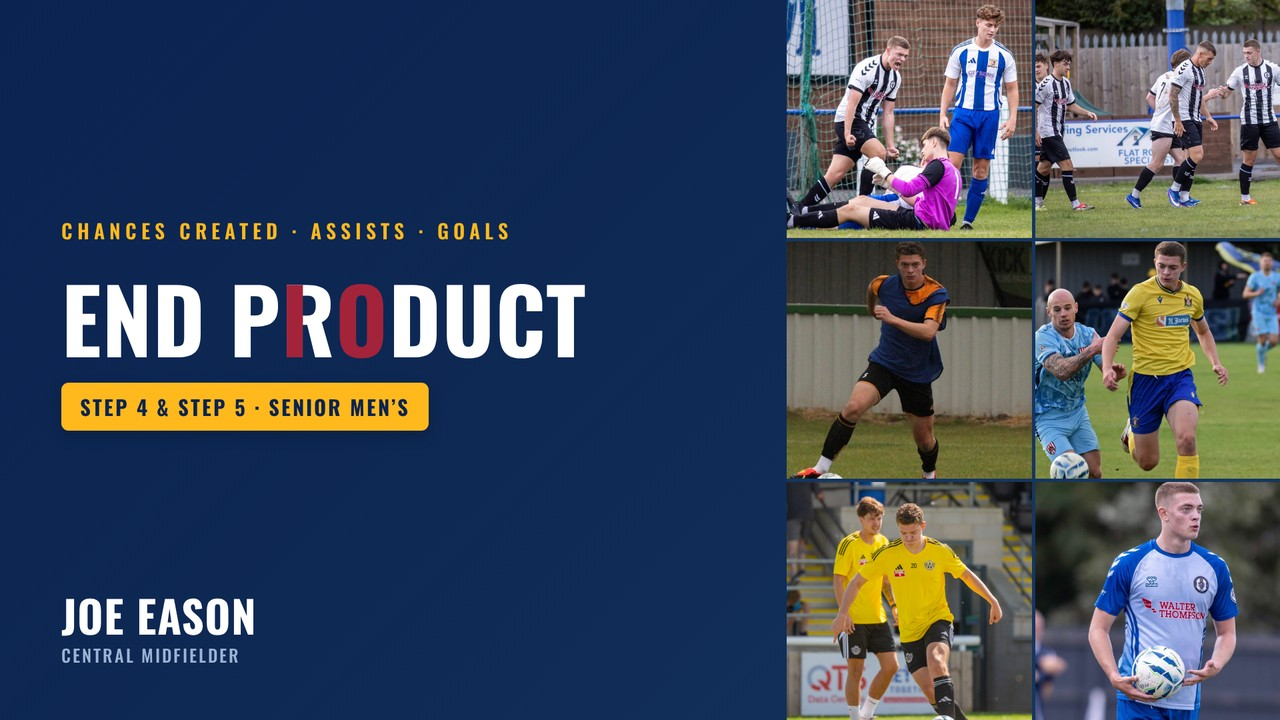
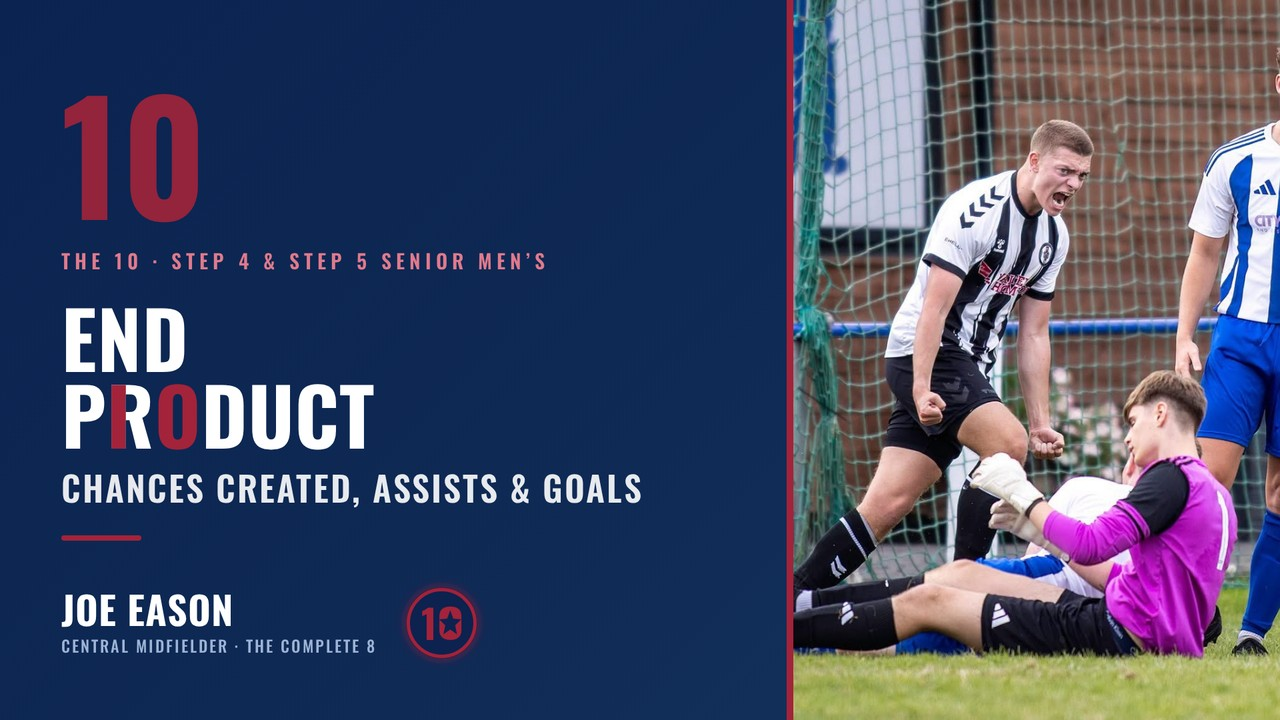
New 10

diff --git a/_test-home-8.html b/_test-home-8.html
@@ -1230,7 +1230,7 @@
           </g>
         </svg>
         <!-- top loop = the 0 of the 10: END PRODUCT, opens the reel -->
-        <a class="hub8-top hub8-ep" href="https://www.youtube.com/watch?v=8nT0fmOoSeg" target="_blank" rel="noopener" data-vid="8nT0fmOoSeg" data-title="End Product: Chances Created, Assists &amp; Goals" data-more="central-midfielder.html#end-product" aria-label="End Product — play the reel">
+        <a class="hub8-top hub8-ep" href="https://www.youtube.com/watch?v=eNd3AO6EZwM" target="_blank" rel="noopener" data-vid="eNd3AO6EZwM" data-title="End Product: Chances Created, Assists &amp; Goals" data-more="central-midfielder.html#end-product" aria-label="End Product — play the reel">
           <span class="ep-k">What the eight produce</span>
           <span class="ep10">END P<span class="ep10-r">R<span class="ep10-stem" aria-hidden="true">R</span></span><span class="ep10-o">O</span>DUCT</span>
           <span class="ep-sub">Chances created &middot; assists &middot; goals</span>
@@ -1290,7 +1290,7 @@
           <div class="m-tile-thumb m-8th"><span class="num-wrap"><span class="num">8</span><span class="hub-star"><i class="fas fa-star"></i></span></span></div>
           <div class="m-tile-body"><h3>The Bit You Can&rsquo;t Coach: The Intangibles</h3><p>Leadership and on-field personality</p></div>
         </a>
-        <a href="https://www.youtube.com/watch?v=8nT0fmOoSeg" target="_blank" rel="noopener" class="m-tile g10" data-vid="8nT0fmOoSeg" data-title="End Product: Chances Created, Assists &amp; Goals" data-more="central-midfielder.html#end-product">
+        <a href="https://www.youtube.com/watch?v=eNd3AO6EZwM" target="_blank" rel="noopener" class="m-tile g10" data-vid="eNd3AO6EZwM" data-title="End Product: Chances Created, Assists &amp; Goals" data-more="central-midfielder.html#end-product">
           <div class="m-tile-thumb"><img src="img/card-end-product.jpg" alt=""></div>
           <div class="m-tile-body"><h3>End Product: Chances Created, Assists &amp; Goals</h3><p>From senior men&rsquo;s football at Step 5 and Step 4</p></div>
         </a>
@@ -1306,7 +1306,7 @@
         <div class="kg kg6"><div class="kg-h"><span class="kg-t">The 6</span><span class="kg-s">Holding midfielder &middot; 01&ndash;03</span></div><a class="ki" data-k="0" href="https://www.youtube.com/watch?v=nmPGCvV8c5w" target="_blank" rel="noopener" data-vid="nmPGCvV8c5w" data-title="Press Resistance: Receiving &amp; Turning"><b>01</b><span class="ki-h"><span class="ki-t">Press Resistance</span><span class="ki-s">Receiving &amp; Turning</span></span><span class="ki-d">Back foot, play forward</span></a><a class="ki" data-k="1" href="https://www.youtube.com/watch?v=RQgMkaj3DGI" target="_blank" rel="noopener" data-vid="RQgMkaj3DGI" data-title="Screening the Back Four: Blocks, Cover &amp; Interceptions"><b>02</b><span class="ki-h"><span class="ki-t">Screening the Back Four</span><span class="ki-s">Blocks, Cover &amp; Interceptions</span></span><span class="ki-d">Reading it, stepping in, screening the back four</span></a><a class="ki" data-k="2" href="https://www.youtube.com/watch?v=DRo2E2lNBT0" target="_blank" rel="noopener" data-vid="DRo2E2lNBT0" data-title="Range of Passing: Forward Balls, Switches &amp; Crosses"><b>03</b><span class="ki-h"><span class="ki-t">Range of Passing</span><span class="ki-s">Forward Balls, Switches &amp; Crosses</span></span><span class="ki-d">Switching play, crossing, delivery</span></a></div>
         <div class="kg kgh"><div class="kg-h"><span class="kg-t">Running the Game</span><span class="kg-s">The 6 into the 8 &middot; 04</span></div><a class="ki" data-k="3" href="https://www.youtube.com/watch?v=Oh14U_1x-bk" target="_blank" rel="noopener" data-vid="Oh14U_1x-bk" data-title="Running the Game: Controlling the Tempo &amp; Breaking Lines"><b>04</b><span class="ki-h"><span class="ki-t">Running the Game</span><span class="ki-s">Controlling the Tempo &amp; Breaking Lines</span></span><span class="ki-d">Playing through, always available, setting the pace</span></a></div>
         <div class="kg kg8"><div class="kg-h"><span class="kg-t">The 8</span><span class="kg-s">Box to box &middot; 05&ndash;07</span></div><a class="ki" data-k="4" href="https://www.youtube.com/watch?v=B1waNOyC7ts" target="_blank" rel="noopener" data-vid="B1waNOyC7ts" data-title="Driving the Team Forward: Ball Carrying"><b>05</b><span class="ki-h"><span class="ki-t">Driving the Team Forward</span><span class="ki-s">Ball Carrying</span></span><span class="ki-d">Driving runs, beating pressure</span></a><a class="ki" data-k="5" href="https://www.youtube.com/watch?v=i4wLz3F-NJ4" target="_blank" rel="noopener" data-vid="i4wLz3F-NJ4" data-title="Winning the Battles: Pressing, Tackling, Recovery Runs &amp; Heading"><b>06</b><span class="ki-h"><span class="ki-t">Winning the Battles</span><span class="ki-s">Pressing, Tackling, Recovery Runs &amp; Heading</span></span><span class="ki-d">Going in, getting back, winning in the air</span></a><a class="ki" data-k="6" href="https://www.youtube.com/watch?v=nUP0c3hIan0" target="_blank" rel="noopener" data-vid="nUP0c3hIan0" data-title="Technical Quality: First Touch, Volleys &amp; Quick Feet"><b>07</b><span class="ki-h"><span class="ki-t">Technical Quality</span><span class="ki-s">First Touch, Volleys &amp; Quick Feet</span></span><span class="ki-d">First touch, composure, execution</span></a></div>
-        <div class="kg kg10"><div class="kg-h"><span class="kg-t">08 + The 10</span><span class="kg-s">In the middle</span></div><a class="ki ki8th" data-k="8th" href="central-midfielder.html#leadership"><b>08</b><span class="ki-h"><span class="ki-t">The Bit You Can&rsquo;t Coach</span><span class="ki-s">The Intangibles</span></span><span class="ki-d">Leadership and on-field personality</span></a><a class="ki ki10" data-k="10" href="https://www.youtube.com/watch?v=8nT0fmOoSeg" target="_blank" rel="noopener" data-vid="8nT0fmOoSeg" data-title="End Product: Chances Created, Assists &amp; Goals" data-more="central-midfielder.html#end-product"><b>10</b><span class="ki-h"><span class="ki-t">End Product</span><span class="ki-s">Chances Created, Assists &amp; Goals</span></span><span class="ki-d">From senior men&rsquo;s football at Step 5 and Step 4</span></a></div>
+        <div class="kg kg10"><div class="kg-h"><span class="kg-t">08 + The 10</span><span class="kg-s">In the middle</span></div><a class="ki ki8th" data-k="8th" href="central-midfielder.html#leadership"><b>08</b><span class="ki-h"><span class="ki-t">The Bit You Can&rsquo;t Coach</span><span class="ki-s">The Intangibles</span></span><span class="ki-d">Leadership and on-field personality</span></a><a class="ki ki10" data-k="10" href="https://www.youtube.com/watch?v=eNd3AO6EZwM" target="_blank" rel="noopener" data-vid="eNd3AO6EZwM" data-title="End Product: Chances Created, Assists &amp; Goals" data-more="central-midfielder.html#end-product"><b>10</b><span class="ki-h"><span class="ki-t">End Product</span><span class="ki-s">Chances Created, Assists &amp; Goals</span></span><span class="ki-d">From senior men&rsquo;s football at Step 5 and Step 4</span></a></div>
       </div>
   </div>
 </section>
@@ -1665,7 +1665,7 @@ document.querySelectorAll('.fi').forEach(el => {
 /* ── END PRODUCT pop-up ──────────────────────────────────────────────
    Set EP_VIDEO to the YouTube ID once the reel is cut; until then the
    pop-up shows a placeholder instead of an empty player.            */
-const EP_VIDEO = '8nT0fmOoSeg';
+const EP_VIDEO = 'eNd3AO6EZwM';
 (function () {
   const modal = document.getElementById('epModal');
   const slot  = document.getElementById('epmVideo');

diff --git a/index.html b/index.html
@@ -1225,7 +1225,7 @@
           </g>
         </svg>
         <!-- top loop = the 0 of the 10: END PRODUCT, opens the reel -->
-        <a class="hub8-top hub8-ep" href="https://www.youtube.com/watch?v=8nT0fmOoSeg" target="_blank" rel="noopener" data-vid="8nT0fmOoSeg" data-title="End Product: Chances Created, Assists &amp; Goals" data-more="central-midfielder.html#end-product" aria-label="End Product — play the reel">
+        <a class="hub8-top hub8-ep" href="https://www.youtube.com/watch?v=eNd3AO6EZwM" target="_blank" rel="noopener" data-vid="eNd3AO6EZwM" data-title="End Product: Chances Created, Assists &amp; Goals" data-more="central-midfielder.html#end-product" aria-label="End Product — play the reel">
           <span class="ep-k">What the eight produce</span>
           <span class="ep10">END P<span class="ep10-r">R<span class="ep10-stem" aria-hidden="true">R</span></span><span class="ep10-o">O</span>DUCT</span>
           <span class="ep-sub">Chances created &middot; assists &middot; goals</span>
@@ -1285,7 +1285,7 @@
           <div class="m-tile-thumb m-8th"><span class="num-wrap"><span class="num">8</span><span class="hub-star"><i class="fas fa-star"></i></span></span></div>
           <div class="m-tile-body"><h3>The Bit You Can&rsquo;t Coach: The Intangibles</h3><p>Leadership and on-field personality</p></div>
         </a>
-        <a href="https://www.youtube.com/watch?v=8nT0fmOoSeg" target="_blank" rel="noopener" class="m-tile g10" data-vid="8nT0fmOoSeg" data-title="End Product: Chances Created, Assists &amp; Goals" data-more="central-midfielder.html#end-product">
+        <a href="https://www.youtube.com/watch?v=eNd3AO6EZwM" target="_blank" rel="noopener" class="m-tile g10" data-vid="eNd3AO6EZwM" data-title="End Product: Chances Created, Assists &amp; Goals" data-more="central-midfielder.html#end-product">
           <div class="m-tile-thumb"><img src="img/card-end-product.jpg" alt=""></div>
           <div class="m-tile-body"><h3>End Product: Chances Created, Assists &amp; Goals</h3><p>From senior men&rsquo;s football at Step 5 and Step 4</p></div>
         </a>
@@ -1301,7 +1301,7 @@
         <div class="kg kg6"><div class="kg-h"><span class="kg-t">The 6</span><span class="kg-s">Holding midfielder &middot; 01&ndash;03</span></div><a class="ki" data-k="0" href="https://www.youtube.com/watch?v=nmPGCvV8c5w" target="_blank" rel="noopener" data-vid="nmPGCvV8c5w" data-title="Press Resistance: Receiving &amp; Turning"><b>01</b><span class="ki-h"><span class="ki-t">Press Resistance</span><span class="ki-s">Receiving &amp; Turning</span></span><span class="ki-d">Back foot, play forward</span></a><a class="ki" data-k="1" href="https://www.youtube.com/watch?v=RQgMkaj3DGI" target="_blank" rel="noopener" data-vid="RQgMkaj3DGI" data-title="Screening the Back Four: Blocks, Cover &amp; Interceptions"><b>02</b><span class="ki-h"><span class="ki-t">Screening the Back Four</span><span class="ki-s">Blocks, Cover &amp; Interceptions</span></span><span class="ki-d">Reading it, stepping in, screening the back four</span></a><a class="ki" data-k="2" href="https://www.youtube.com/watch?v=DRo2E2lNBT0" target="_blank" rel="noopener" data-vid="DRo2E2lNBT0" data-title="Range of Passing: Forward Balls, Switches &amp; Crosses"><b>03</b><span class="ki-h"><span class="ki-t">Range of Passing</span><span class="ki-s">Forward Balls, Switches &amp; Crosses</span></span><span class="ki-d">Switching play, crossing, delivery</span></a></div>
         <div class="kg kgh"><div class="kg-h"><span class="kg-t">Running the Game</span><span class="kg-s">The 6 into the 8 &middot; 04</span></div><a class="ki" data-k="3" href="https://www.youtube.com/watch?v=Oh14U_1x-bk" target="_blank" rel="noopener" data-vid="Oh14U_1x-bk" data-title="Running the Game: Controlling the Tempo &amp; Breaking Lines"><b>04</b><span class="ki-h"><span class="ki-t">Running the Game</span><span class="ki-s">Controlling the Tempo &amp; Breaking Lines</span></span><span class="ki-d">Playing through, always available, setting the pace</span></a></div>
         <div class="kg kg8"><div class="kg-h"><span class="kg-t">The 8</span><span class="kg-s">Box to box &middot; 05&ndash;07</span></div><a class="ki" data-k="4" href="https://www.youtube.com/watch?v=B1waNOyC7ts" target="_blank" rel="noopener" data-vid="B1waNOyC7ts" data-title="Driving the Team Forward: Ball Carrying"><b>05</b><span class="ki-h"><span class="ki-t">Driving the Team Forward</span><span class="ki-s">Ball Carrying</span></span><span class="ki-d">Driving runs, beating pressure</span></a><a class="ki" data-k="5" href="https://www.youtube.com/watch?v=i4wLz3F-NJ4" target="_blank" rel="noopener" data-vid="i4wLz3F-NJ4" data-title="Winning the Battles: Pressing, Tackling, Recovery Runs &amp; Heading"><b>06</b><span class="ki-h"><span class="ki-t">Winning the Battles</span><span class="ki-s">Pressing, Tackling, Recovery Runs &amp; Heading</span></span><span class="ki-d">Going in, getting back, winning in the air</span></a><a class="ki" data-k="6" href="https://www.youtube.com/watch?v=nUP0c3hIan0" target="_blank" rel="noopener" data-vid="nUP0c3hIan0" data-title="Technical Quality: First Touch, Volleys &amp; Quick Feet"><b>07</b><span class="ki-h"><span class="ki-t">Technical Quality</span><span class="ki-s">First Touch, Volleys &amp; Quick Feet</span></span><span class="ki-d">First touch, composure, execution</span></a></div>
-        <div class="kg kg10"><div class="kg-h"><span class="kg-t">08 + The 10</span><span class="kg-s">In the middle</span></div><a class="ki ki8th" data-k="8th" href="central-midfielder.html#leadership"><b>08</b><span class="ki-h"><span class="ki-t">The Bit You Can&rsquo;t Coach</span><span class="ki-s">The Intangibles</span></span><span class="ki-d">Leadership and on-field personality</span></a><a class="ki ki10" data-k="10" href="https://www.youtube.com/watch?v=8nT0fmOoSeg" target="_blank" rel="noopener" data-vid="8nT0fmOoSeg" data-title="End Product: Chances Created, Assists &amp; Goals" data-more="central-midfielder.html#end-product"><b>10</b><span class="ki-h"><span class="ki-t">End Product</span><span class="ki-s">Chances Created, Assists &amp; Goals</span></span><span class="ki-d">From senior men&rsquo;s football at Step 5 and Step 4</span></a></div>
+        <div class="kg kg10"><div class="kg-h"><span class="kg-t">08 + The 10</span><span class="kg-s">In the middle</span></div><a class="ki ki8th" data-k="8th" href="central-midfielder.html#leadership"><b>08</b><span class="ki-h"><span class="ki-t">The Bit You Can&rsquo;t Coach</span><span class="ki-s">The Intangibles</span></span><span class="ki-d">Leadership and on-field personality</span></a><a class="ki ki10" data-k="10" href="https://www.youtube.com/watch?v=eNd3AO6EZwM" target="_blank" rel="noopener" data-vid="eNd3AO6EZwM" data-title="End Product: Chances Created, Assists &amp; Goals" data-more="central-midfielder.html#end-product"><b>10</b><span class="ki-h"><span class="ki-t">End Product</span><span class="ki-s">Chances Created, Assists &amp; Goals</span></span><span class="ki-d">From senior men&rsquo;s football at Step 5 and Step 4</span></a></div>
       </div>
   </div>
 </section>
@@ -1660,7 +1660,7 @@ document.querySelectorAll('.fi').forEach(el => {
 /* ── END PRODUCT pop-up ──────────────────────────────────────────────
    Set EP_VIDEO to the YouTube ID once the reel is cut; until then the
    pop-up shows a placeholder instead of an empty player.            */
-const EP_VIDEO = '8nT0fmOoSeg';
+const EP_VIDEO = 'eNd3AO6EZwM';
 (function () {
   const modal = document.getElementById('epModal');
   const slot  = document.getElementById('epmVideo');

diff --git a/central-midfielder.html b/central-midfielder.html
@@ -1330,7 +1330,7 @@
             The eight above are the means. This is the end. Chances created, assists and goals from senior men&rsquo;s football at <strong>Step 5 and Step 4</strong>, captioned on screen with the parts of his game that produce them. The ones a teammate didn&rsquo;t finish are left in deliberately: <strong>creating the chance is the midfielder&rsquo;s job</strong>, converting it isn&rsquo;t.
           </p>
 
-          <a href="https://www.youtube.com/watch?v=8nT0fmOoSeg" target="_blank" rel="noopener" class="skill-video" data-vid="8nT0fmOoSeg" id="vid-end">
+          <a href="https://www.youtube.com/watch?v=eNd3AO6EZwM" target="_blank" rel="noopener" class="skill-video" data-vid="eNd3AO6EZwM" id="vid-end">
             <img src="img/card-end-product.jpg" alt="End Product &mdash; chances created, assists and goals">
             <div class="play-btn"><i class="fas fa-play"></i></div>
             <div class="vid-label"><i class="fas fa-play" style="font-size:8px;margin-right:4px;"></i> Watch Video</div>
